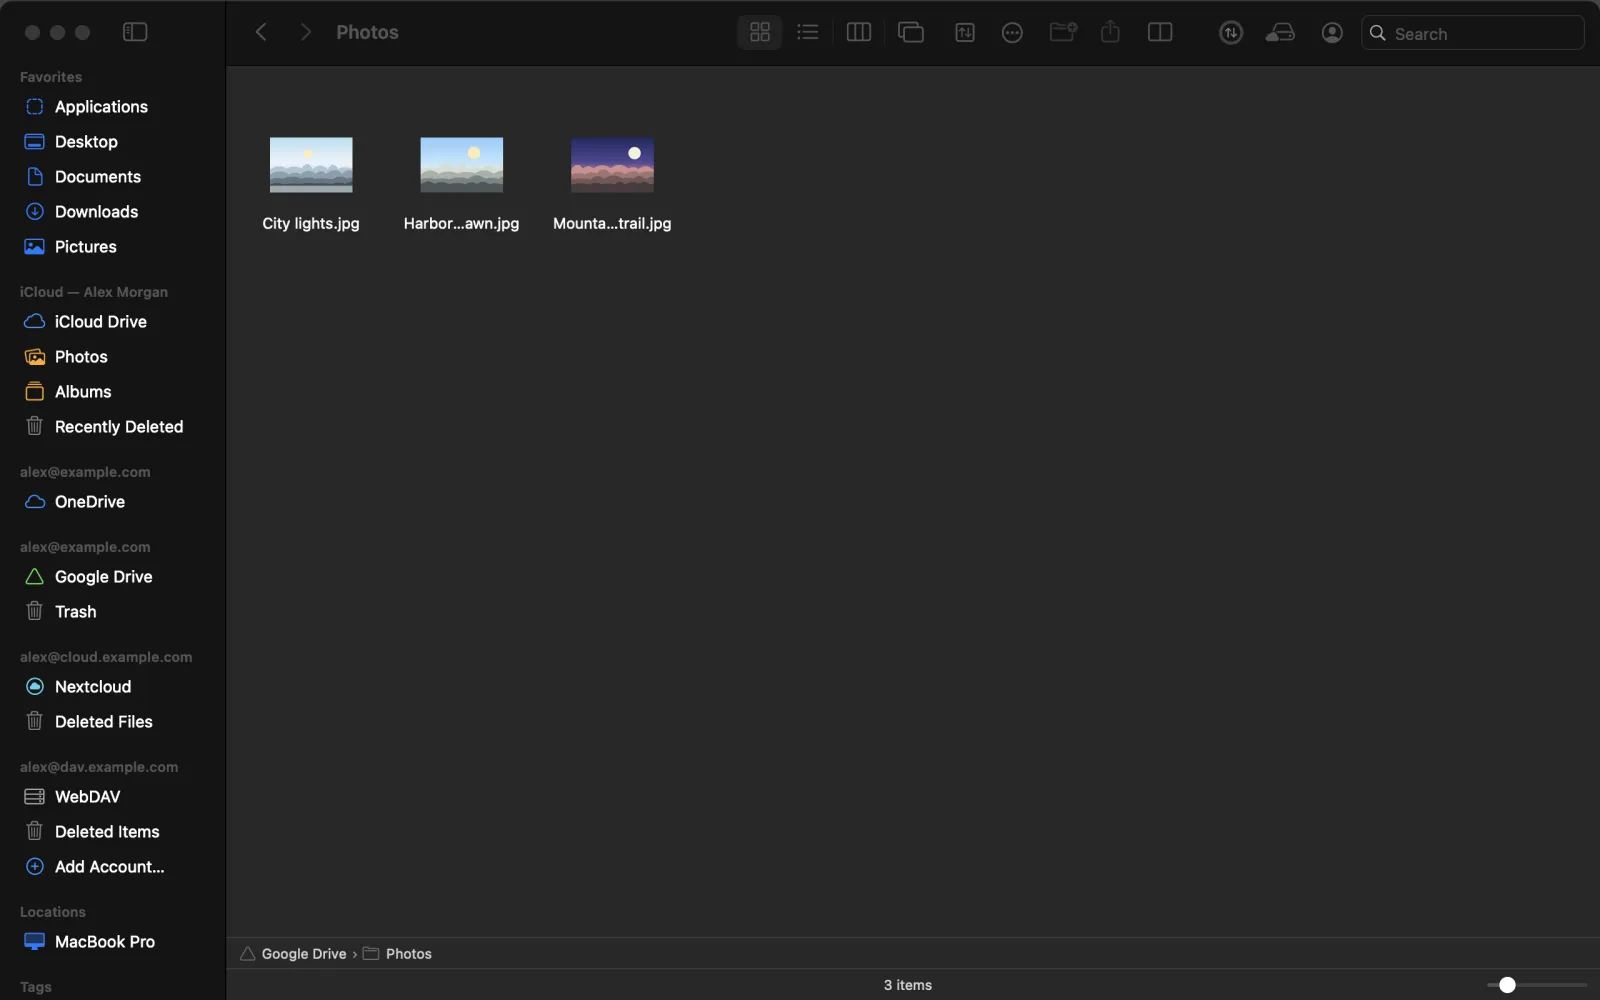
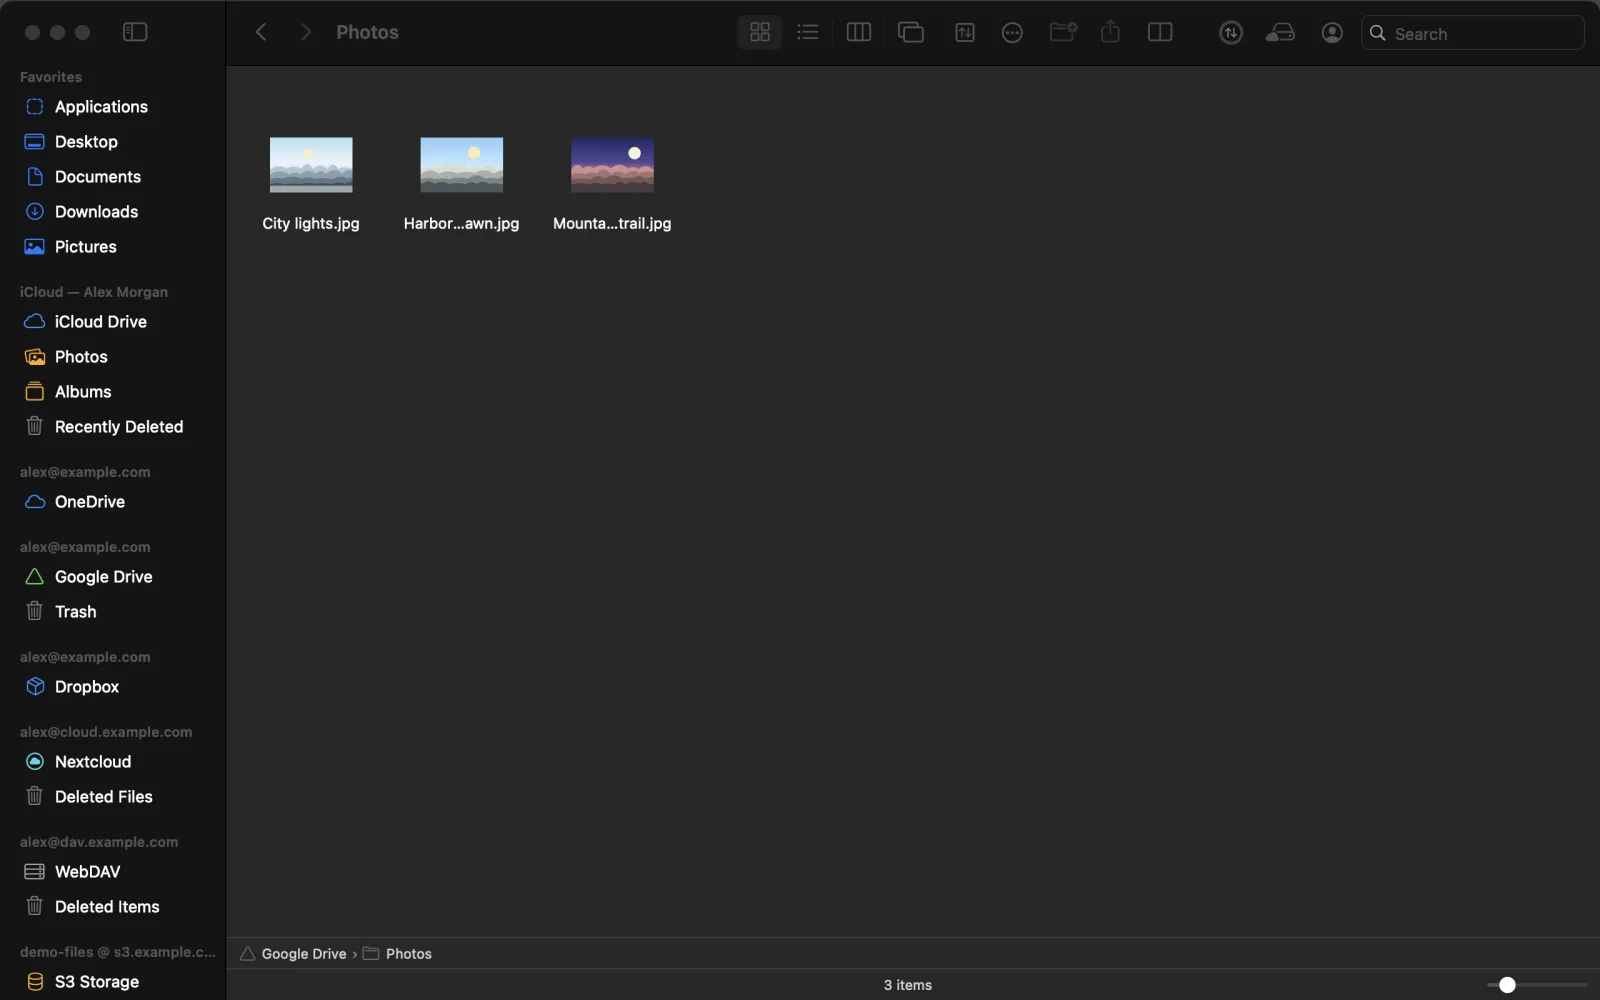
Site and README: Dropbox, S3 storage and Immich, other clouds on iPhone and iPad, moves between clouds; new Mac and iPhone screenshots

Changed region(s): [[0.0, 0.651, 0.125, 0.992]]

diff --git a/docs/index.html b/docs/index.html
@@ -4,7 +4,7 @@
 <meta charset="utf-8">
 <meta name="viewport" content="width=device-width, initial-scale=1">
 <title>Cirrus — a Finder for iCloud</title>
-<meta name="description" content="Cirrus is a native app to browse, move, sync and back up iCloud Drive and iCloud Photos on Mac, Windows, iPhone and iPad, beside OneDrive, Google Drive and Nextcloud. Free, open source, private by design.">
+<meta name="description" content="Cirrus is a native app to browse, move, sync and back up iCloud Drive and iCloud Photos on Mac, Windows, iPhone and iPad, beside OneDrive, Google Drive, Dropbox, Nextcloud and Immich. Free, open source, private by design.">
 <meta property="og:title" content="Cirrus — a Finder for iCloud">
 <meta property="og:description" content="Browse, drag, sync and back up iCloud Drive and Photos on Mac, Windows, iPhone and iPad. Free and open source.">
 <meta property="og:type" content="website">
@@ -178,7 +178,7 @@ footer p { margin: 4px 0; max-width: 640px; }
   <div class="wrap">
     <img class="appicon" src="img/icon-512.webp" alt="Cirrus app icon" width="92" height="92">
     <h1>Your iCloud, <span class="grad">in a real Finder.</span></h1>
-    <p class="lede">Browse, drag, sync and back up iCloud Drive and iCloud Photos — on Mac, Windows, iPhone and iPad, even where you're not signed in to iCloud. On the Mac, your OneDrive, Google Drive and Nextcloud sit right beside it.</p>
+    <p class="lede">Browse, drag, sync and back up iCloud Drive and iCloud Photos — on Mac, Windows, iPhone and iPad, even where you're not signed in to iCloud. Your OneDrive, Google Drive, Dropbox, Nextcloud and Immich sit right beside it.</p>
     <div class="ctas">
       <a class="btn primary" href="https://github.com/ZephyrSai/Cirrus/releases/latest">Download for Mac</a>
       <a class="btn" href="https://github.com/ZephyrSai/Cirrus/releases/latest">Windows</a>
@@ -201,7 +201,7 @@ footer p { margin: 4px 0; max-width: 640px; }
       <div class="card"><div class="ico p">🔎</div><h3>Search, tags, rename</h3><p>Search through subfolders, add Finder tags, click a name to rename it, or rename many files at once. Also: folder sizes, New File, Make Alias, Go to Folder and Open in Terminal.</p></div>
       <div class="card"><div class="ico g">💾</div><h3>Back up &amp; sync</h3><p>Back up all of iCloud to any drive as ordinary folders, with photos sorted by year and month. Sync jobs copy, mirror or two-way sync, and you always see a preview first.</p></div>
       <div class="card"><div class="ico">⇄</div><h3>iCloud ⇄ Google</h3><p>Move to Google Drive and Google Photos, or back again (Google Takeout included). Your albums come along, and nothing is ever deleted.</p></div>
-      <div class="card"><div class="ico p">☁</div><h3>Every cloud, one place</h3><p>Your device's iCloud or any Apple ID first, plus OneDrive, Google Drive, Nextcloud and any WebDAV server. Browse them all the same way, and drag or sync between them.</p></div>
+      <div class="card"><div class="ico p">☁</div><h3>Every cloud, one place</h3><p>Your device's iCloud or any Apple ID first, plus OneDrive, Google Drive, Dropbox, Nextcloud, Immich, S3 storage and any WebDAV server. Browse them the same way, and drag, move or sync between them.</p></div>
       <div class="card"><div class="ico r">🛡</div><h3>Safe by design</h3><p>Removals only ever go to the Trash or Recently Deleted. In read-only mode, nothing in iCloud can change at all.</p></div>
       <div class="card"><div class="ico g">🔒</div><h3>Private</h3><p>Cirrus talks only to Apple and the services you add, with no analytics and no servers of its own. Sign-ins stay on your device, in the Keychain.</p></div>
     </div>
@@ -221,6 +221,7 @@ footer p { margin: 4px 0; max-width: 640px; }
       <li>Exports with Live Photo videos and RAW files, sorted by year and month</li>
       <li>Back up to a USB-C drive, SD card or file server</li>
       <li>A transfer queue that keeps going in the background</li>
+      <li>OneDrive, Google Drive, Dropbox, Nextcloud and Immich beside iCloud</li>
     </ul>
   </div>
 </section>
@@ -244,7 +245,7 @@ footer p { margin: 4px 0; max-width: 640px; }
     <div class="faq">
       <details><summary>Is Cirrus made by Apple?</summary><p>No. It's an independent open-source project. It uses the same web services as iCloud.com, or your device's own iCloud.</p></details>
       <details><summary>Does it need my Apple ID password?</summary><p>Only to add an Apple ID. It goes only to Apple, using the same secure sign-in as iCloud.com. Cirrus keeps it only if you ask, on this device and behind Touch ID or Face ID.</p></details>
-      <details><summary>Which other clouds can I add?</summary><p>On the Mac: OneDrive, Google Drive, Nextcloud and any WebDAV server (ownCloud, OpenCloud, Synology, QNAP and more), with File › Add Account. Sign-in happens in your browser wherever the service allows it, so Cirrus never sees those passwords. Everything Cirrus can do with iCloud Drive works there too.</p></details>
+      <details><summary>Which other clouds can I add?</summary><p>OneDrive, Google Drive, Dropbox, Nextcloud, Immich (photos), S3-compatible storage (Backblaze B2, Cloudflare R2, Wasabi, MinIO, AWS) and any WebDAV server, on the Mac, iPhone and iPad, with Add Account. Sign-in happens in the service's own page wherever it allows it, so Cirrus never sees those passwords. Everything Cirrus can do with iCloud Drive works there too, and Immich gets the Photos views.</p></details>
       <details><summary>Can it delete my stuff by accident?</summary><p>Removals only go to the Trash or Recently Deleted. Sync runs show a preview first and stop if they would remove an unusual number of files. Read-only mode blocks every change.</p></details>
       <details><summary>macOS says it can't open the app?</summary><p>Releases aren't notarized yet. Open it once from System Settings › Privacy &amp; Security › Open Anyway, or build it yourself.</p></details>
     </div>
@@ -275,11 +276,11 @@ footer p { margin: 4px 0; max-width: 640px; }
 (() => {
   // [file, caption, width, height] — sizes reserve space so the strips never jump while loading
   const sets = {
-    mac: [['photos', 'Photos by month', 1024, 640], ['clouds', 'iCloud beside OneDrive, Google Drive and Nextcloud', 1024, 640], ['gallery', 'Gallery view', 1024, 640], ['columns', 'Column view', 1024, 640],
+    mac: [['photos', 'Photos by month', 1024, 640], ['clouds', 'iCloud beside OneDrive, Google Drive, Dropbox, Nextcloud and more', 1024, 640], ['immich', 'Immich photos', 1024, 640], ['gallery', 'Gallery view', 1024, 640], ['columns', 'Column view', 1024, 640],
           ['tabdrop', 'Drop on any tab', 1024, 640], ['preview', 'Preview pane', 1024, 640], ['notice', 'Every drop confirmed', 1024, 640], ['addaccount', 'Add another cloud', 1024, 640],
           ['drive', 'iCloud Drive', 1024, 640], ['dual', 'Two panes', 1024, 640], ['list', 'List view', 1024, 640],
           ['google', 'Move to or from Google', 492, 640], ['albums', 'Albums', 1024, 640], ['backup', 'Back Up iCloud', 528, 640]],
-    ios: [['drive', 'iCloud Drive', 396, 860], ['photos', 'Photos by month', 396, 860], ['photo', 'Live Photo', 396, 860], ['albums', 'Albums', 396, 860],
+    ios: [['drive', 'iCloud Drive', 396, 860], ['clouds', 'Your other clouds', 396, 860], ['photos', 'Photos by month', 396, 860], ['photo', 'Live Photo', 396, 860], ['albums', 'Albums', 396, 860],
           ['backup', 'Back up to a drive', 396, 860], ['transfers', 'Transfers', 396, 860], ['export', 'Export originals', 396, 860],
           ['settings-readonly', 'Read-only mode', 396, 860]],
   };

diff --git a/README.md b/README.md
@@ -19,7 +19,7 @@ A native app for browsing, moving, syncing and backing up iCloud Drive and iClou
 - **Back Up iCloud.** Checks space, then downloads everything as ordinary files and folders on a drive you choose. Photos are sorted into `YYYY/MM` folders with their Live Photo videos, edits and RAW files. Later runs fetch only what's new.
 - **iCloud ⇄ Google.** Move iCloud Drive and Photos to Google Drive and Google Photos, or bring Google Drive and a Google Takeout export of your photos into iCloud. Albums and favorites come along. Runs are resumable and incremental, and nothing is ever deleted.
 - **Two ways in.** Uses the Mac's own iCloud when it's signed in. Otherwise, sign in to one or more Apple IDs the way iCloud.com does, including two-factor and Advanced Data Protection approval.
-- **Other clouds beside iCloud (Mac).** Add OneDrive, Google Drive, Nextcloud or any WebDAV server (ownCloud, OpenCloud, Synology, QNAP…) with File › Add Account. They get the same browsing, drag and drop, transfer queue and sync jobs as iCloud Drive, server thumbnails, their own trash, and copies between any two of them. Nextcloud, OneDrive and Google sign in through your browser, so Cirrus never sees those passwords; Google Drive uses your own free Google Cloud client, and OneDrive a free Microsoft app registration.
+- **Other clouds beside iCloud.** Add OneDrive, Google Drive, Dropbox, Nextcloud, Immich, S3-compatible storage (Backblaze B2, Cloudflare R2, Wasabi, MinIO, AWS) or any WebDAV server (ownCloud, OpenCloud, Synology, QNAP…) with Add Account, on the Mac, iPhone and iPad. They get the same browsing, drag and drop, transfer queue and sync jobs as iCloud Drive, server thumbnails, their own trash, and copies or moves (⌘-drag) between any two of them; Immich gets the Photos views (timeline, albums, favorites). OneDrive, Google, Dropbox and Nextcloud sign in on their own page, so Cirrus never sees those passwords; Google Drive uses your own free Google Cloud client, OneDrive a free Microsoft app registration and Dropbox a free app key.
 
 ## Privacy and safety
 
@@ -38,7 +38,7 @@ A native app for browsing, moving, syncing and backing up iCloud Drive and iClou
 | **iPhone and iPad** (iOS 17+) | Build from source: SwiftUI app on the same Swift engine, with multiple Apple IDs, exports and backups to USB drives (`ios/`, `scripts/build-ios.sh`) |
 | **Windows 10/11** (x64 and Arm64) | Preview: WPF app with the same engine, ported to .NET |
 | **iCloud ⇄ Google Drive / Google Photos** | In the Mac and Windows apps (bring your own free Google Cloud OAuth client) |
-| **OneDrive, Google Drive, Nextcloud, WebDAV** | Mac app: browse, transfer and sync beside iCloud (File › Add Account) |
+| **OneDrive, Google Drive, Dropbox, Nextcloud, Immich, S3, WebDAV** | Mac, iPhone and iPad: browse, transfer and sync beside iCloud (Add Account) |
 
 ## Building
 
